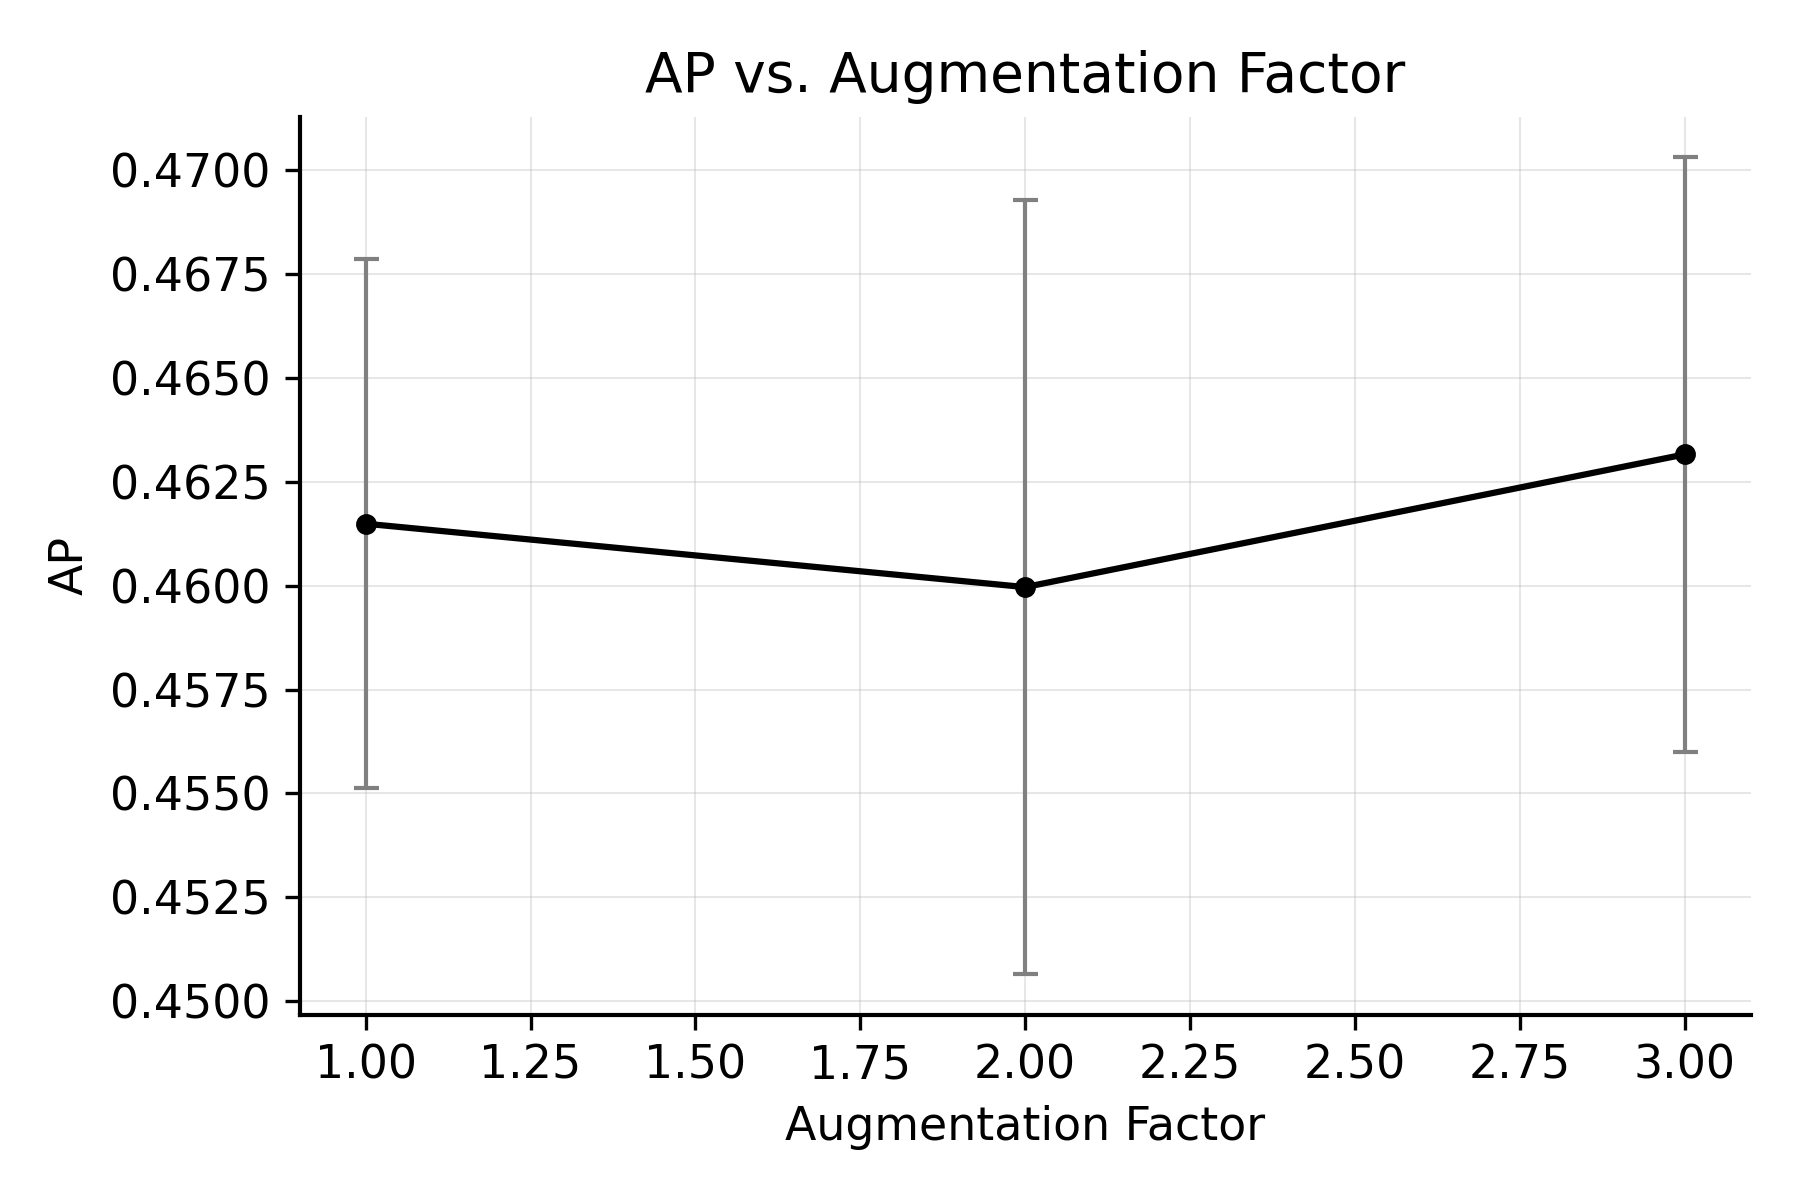
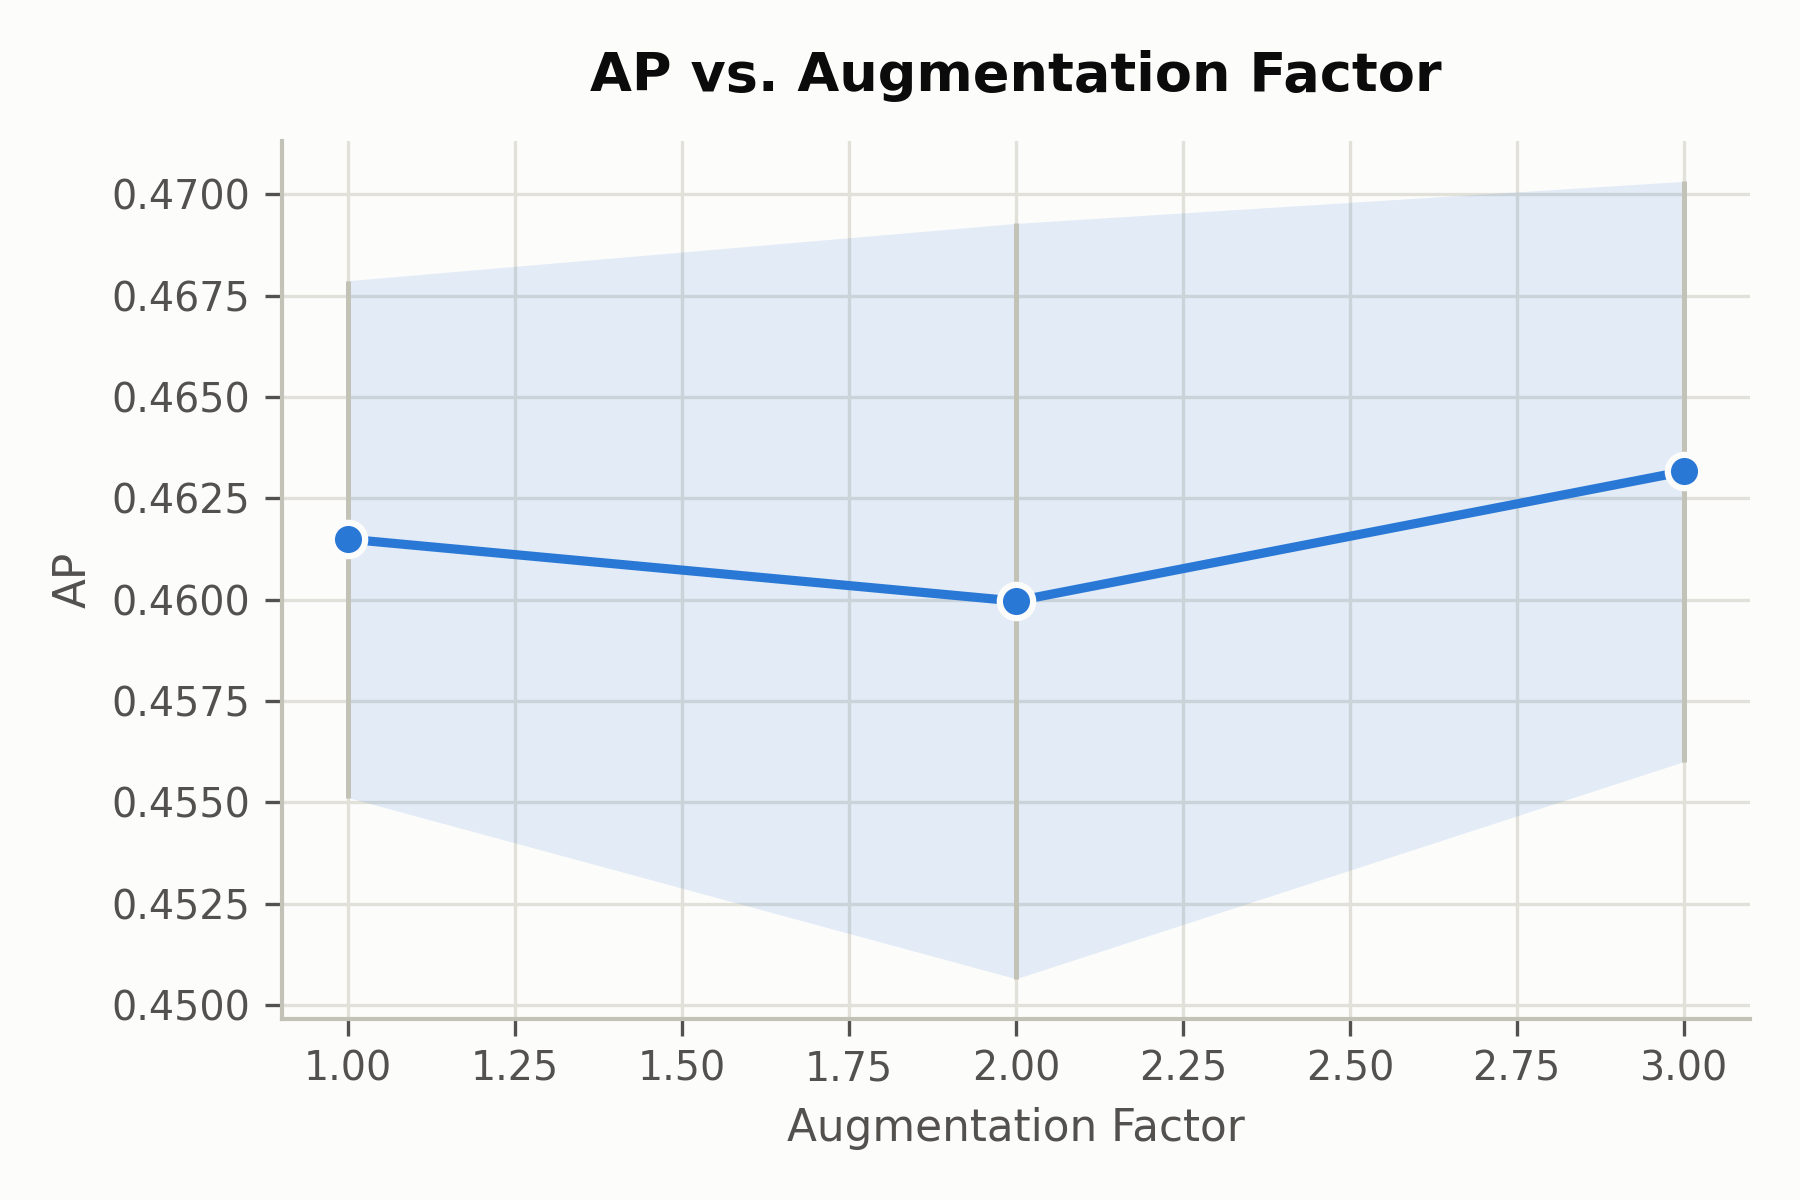
Modernize chart style and drop inaccurate "Live" label
Charts now use the accent blue with a soft std-band fill and
surface-ringed markers instead of plain black/gray. The header no
longer claims real-time data since refresh is a manual Action.

diff --git a/docs/index.html b/docs/index.html
@@ -164,7 +164,7 @@
 </head>
 <body>
   <header>
-    <div class="eyebrow">Live from Weights &amp; Biases</div>
+    <div class="eyebrow">Synthetic-data sweep</div>
     <h1>Apple detector — training metrics</h1>
     <p class="subtitle">
       AP and AR100 across the synthetic-data sweep. Refresh via

diff --git a/apple_vision/scientific_plot.py b/apple_vision/scientific_plot.py
@@ -1,4 +1,4 @@
-"""Shared plotting helpers for publication-style charts (mean +/- std line, raw scatter)."""
+"""Shared plotting helpers for clean, modern charts (mean +/- std line, raw scatter)."""
 from __future__ import annotations
 
 from pathlib import Path
@@ -6,18 +6,34 @@ from pathlib import Path
 import matplotlib.pyplot as plt
 import pandas as pd
 
+SURFACE = "#fcfcfb"
+INK = "#0b0b0b"
+INK_SECONDARY = "#52514e"
+GRID = "#e1e0d9"
+BASELINE = "#c3c2b7"
+ACCENT = "#2a78d6"
+ACCENT_SOFT = "#2a78d6"  # used at low alpha for area fill / scatter
+
 
 def _style_axes(ax, title: str, x_label: str, y_label: str) -> None:
-    ax.set_title(title)
-    ax.set_xlabel(x_label)
-    ax.set_ylabel(y_label)
-    ax.spines["top"].set_visible(False)
-    ax.spines["right"].set_visible(False)
-    ax.tick_params(direction="out")
-    ax.grid(True, alpha=0.3, linewidth=0.5)
+    ax.set_title(title, fontsize=13, fontweight=600, color=INK, pad=12)
+    ax.set_xlabel(x_label, fontsize=10.5, color=INK_SECONDARY)
+    ax.set_ylabel(y_label, fontsize=10.5, color=INK_SECONDARY)
+
+    ax.set_facecolor(SURFACE)
+    for spine in ("top", "right"):
+        ax.spines[spine].set_visible(False)
+    for spine in ("left", "bottom"):
+        ax.spines[spine].set_color(BASELINE)
+        ax.spines[spine].set_linewidth(1.0)
+
+    ax.tick_params(direction="out", colors=INK_SECONDARY, labelsize=9.5, length=4)
+    ax.grid(True, color=GRID, linewidth=0.8, linestyle="-")
+    ax.set_axisbelow(True)
 
 
 def _save(fig, out_basename: str, formats: tuple[str, ...]) -> None:
+    fig.patch.set_facecolor(SURFACE)
     fig.tight_layout()
 
     out_dir = Path(out_basename).parent
@@ -26,7 +42,7 @@ def _save(fig, out_basename: str, formats: tuple[str, ...]) -> None:
 
     for ext in formats:
         out_path = f"{out_basename}.{ext}"
-        fig.savefig(out_path, dpi=300)
+        fig.savefig(out_path, dpi=300, facecolor=SURFACE)
         print(f"Saved {out_path}")
 
     plt.close(fig)
@@ -35,6 +51,8 @@ def _save(fig, out_basename: str, formats: tuple[str, ...]) -> None:
 plt.rcParams.update(
     {
         "font.size": 11,
+        "font.family": "sans-serif",
+        "font.sans-serif": ["Helvetica Neue", "Arial", "DejaVu Sans"],
         "axes.linewidth": 1.0,
         "figure.dpi": 100,
     }
@@ -58,17 +76,31 @@ def plot_mean_std_line(
     grouped["std"] = grouped["std"].fillna(0.0)
 
     fig, ax = plt.subplots(figsize=(6, 4))
+
+    ax.fill_between(
+        grouped[x_column],
+        grouped["mean"] - grouped["std"],
+        grouped["mean"] + grouped["std"],
+        color=ACCENT_SOFT,
+        alpha=0.12,
+        linewidth=0,
+        zorder=1,
+    )
     ax.errorbar(
         grouped[x_column],
         grouped["mean"],
         yerr=grouped["std"],
         marker="o",
-        markersize=4,
-        linewidth=1.5,
-        capsize=3,
-        color="black",
-        ecolor="gray",
-        elinewidth=1.0,
+        markersize=8,
+        markerfacecolor=ACCENT,
+        markeredgecolor=SURFACE,
+        markeredgewidth=1.5,
+        linewidth=2.2,
+        color=ACCENT,
+        ecolor=BASELINE,
+        elinewidth=1.2,
+        capsize=0,
+        zorder=3,
     )
 
     _style_axes(ax, title, x_label, y_label)
@@ -91,10 +123,12 @@ def plot_scatter(
     ax.scatter(
         df[x_column],
         df[y_column],
-        s=35,
-        color="black",
-        alpha=0.6,
-        edgecolor="none",
+        s=70,
+        color=ACCENT,
+        alpha=0.55,
+        edgecolor=SURFACE,
+        linewidth=1.2,
+        zorder=3,
     )
 
     _style_axes(ax, title, x_label, y_label)
